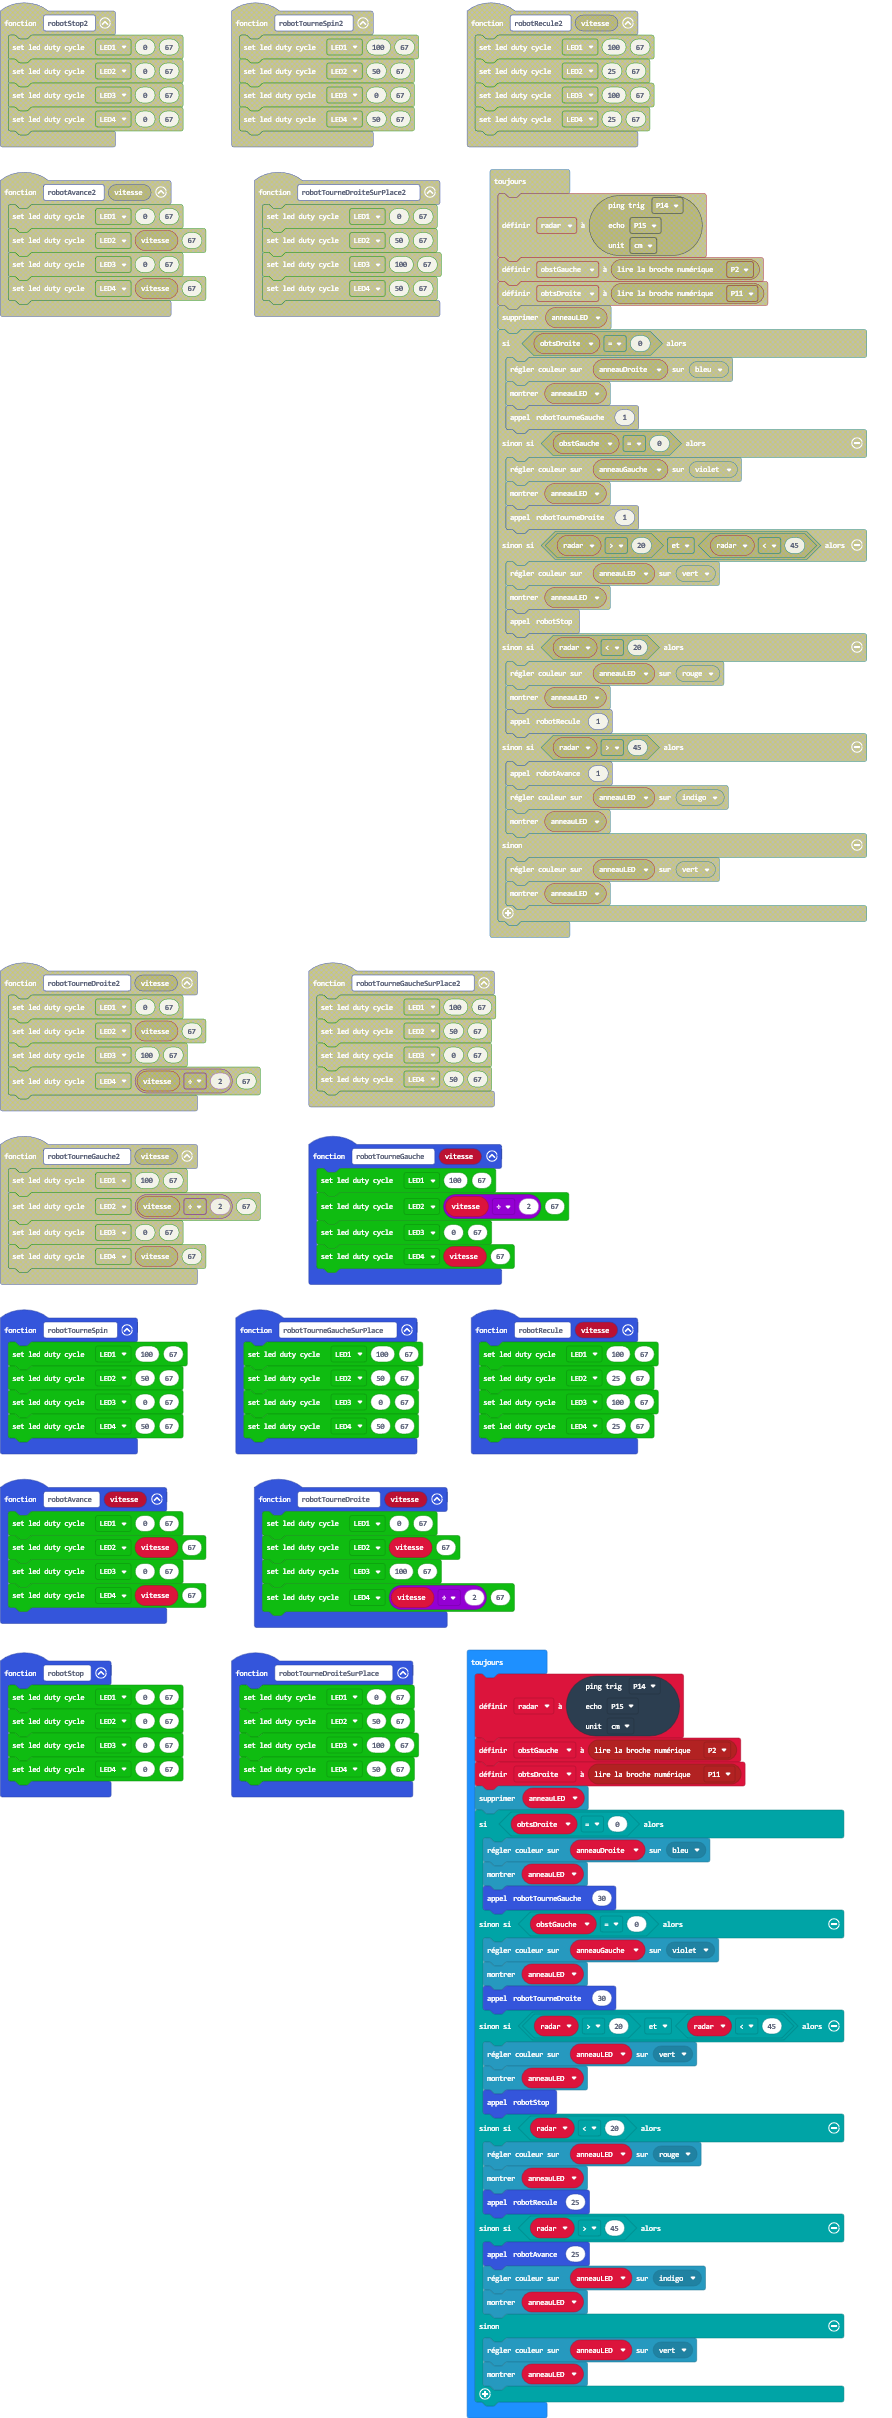
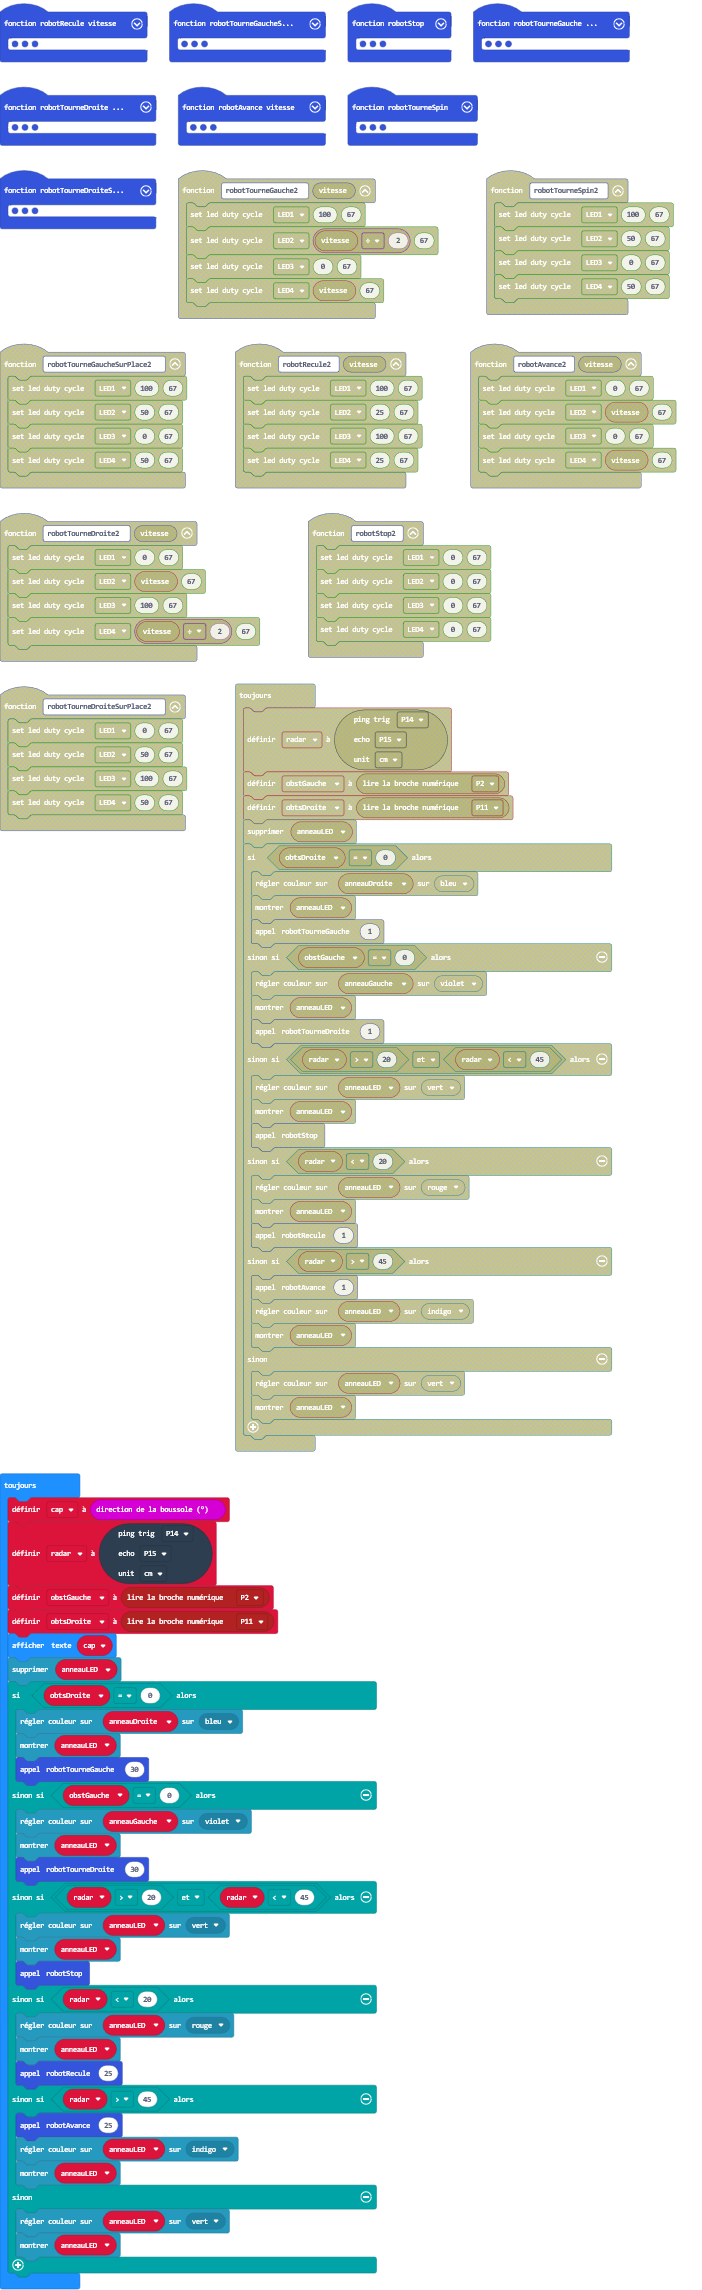
Essai affichage cap

diff --git a/main.ts b/main.ts
@@ -49,6 +49,7 @@ function robotTourneDroiteSurPlace () {
 let obtsDroite = 0
 let obstGauche = 0
 let radar = 0
+let cap = 0
 PCA9685.init(67, 0)
 let anneauLED = neopixel.create(DigitalPin.P5, 18, NeoPixelMode.RGB)
 let anneauDroite = anneauLED.range(0, 9)
@@ -56,6 +57,7 @@ let anneauGauche = anneauLED.range(9, 9)
 pins.setPull(DigitalPin.P2, PinPullMode.PullUp)
 pins.setPull(DigitalPin.P11, PinPullMode.PullUp)
 basic.forever(function () {
+    cap = input.compassHeading()
     radar = sonar.ping(
     DigitalPin.P14,
     DigitalPin.P15,
@@ -63,6 +65,7 @@ basic.forever(function () {
     )
     obstGauche = pins.digitalReadPin(DigitalPin.P2)
     obtsDroite = pins.digitalReadPin(DigitalPin.P11)
+    basic.showString("" + (cap))
     anneauLED.clear()
     if (obtsDroite == 0) {
         anneauDroite.showColor(neopixel.colors(NeoPixelColors.Blue))
